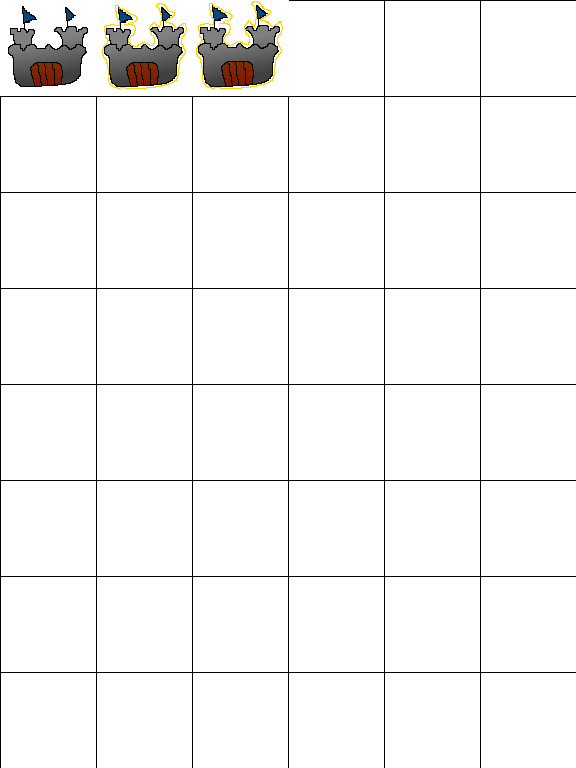
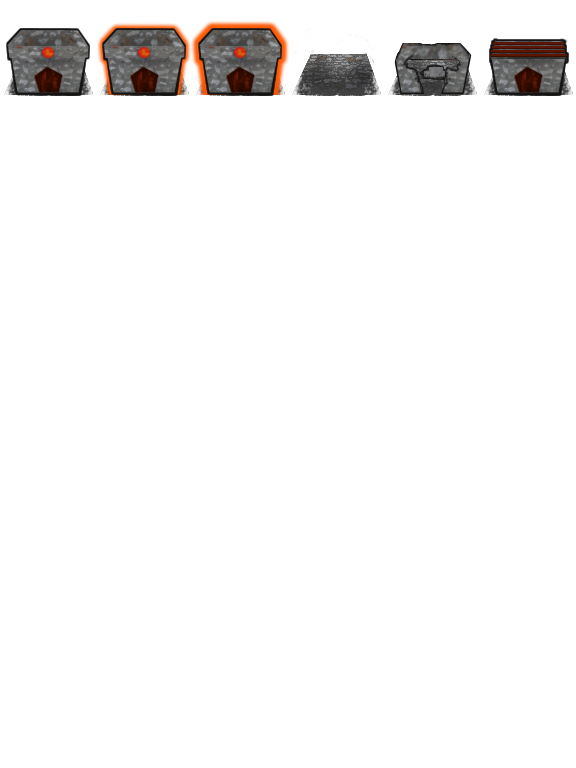
Construction de batiments et nouveau design

Changed region(s): [[0.0, 0.0, 1.0, 0.125]]

diff --git a/smallsoldiers/smallsoldiers/entity/Building.cs b/smallsoldiers/smallsoldiers/entity/Building.cs
@@ -10,7 +10,7 @@ namespace smallsoldiers.entity
     {
         private Flag fanion;
         public bool display_flag;
-        private int delay, time_since_last;
+        private int delay, time_since_last, building_state, elapsed;
         private Animation working_anim;
 
         public void SetPosition(Point _p) { rect.X = _p.X; rect.Y = _p.Y; }
@@ -18,30 +18,48 @@ namespace smallsoldiers.entity
         public Building(string _asset)
             : base(_asset,
                    new Rectangle(0, 0, Cons.BUILDING_SIZE, Cons.BUILDING_SIZE),
-                   new Rectangle(0, 0, Cons.BUILDING_SIZE, Cons.BUILDING_SIZE),
+                   new Rectangle(3 * Cons.BUILDING_SIZE, 0, Cons.BUILDING_SIZE, Cons.BUILDING_SIZE),
                    Color.White, 0.3f)
         {
             fanion = new Flag("flag_louis");
             display_flag = false;
             delay = 300;
             time_since_last = 0;
+            building_state = 0;
+            elapsed = 0;
             working_anim = new Animation("building_nicolas", new Rectangle(0, 0, 96, 96), 3, 0, depth, false);
             //model = new Soldier("fighter_louis", 50, 75, fanion);
             //model.move_to(Cons.WIDTH / 2, Cons.HEIGHT / 2);
         }
-        bool working = false;
         public void Update(GameTime _gameTime, Army _a)
         {
-            time_since_last++;
-            if (time_since_last >= delay)
+            if (building_state < 3)
             {
-                working = _a.Add_soldier(new Soldier("fighter_louis", rect.X + 32, rect.Y + 64, fanion));
-                time_since_last = 0;
-                
+                elapsed += _gameTime.ElapsedGameTime.Milliseconds;
+                if (elapsed > 2000)
+                {
+                    elapsed -= 2000;
+                    building_state++;
+                    source.X = Cons.BUILDING_SIZE * (3 + building_state);
+                    if (building_state == 3)
+                    {
+                        source.X = 0;
+                    }
+                }
             }
-            if (working)
+            else
             {
-                working_anim.Update(_gameTime);
+                time_since_last++;
+                if (time_since_last >= delay)
+                {
+                    if (_a.Add_soldier(new Soldier("fighter_louis", rect.X + 32, rect.Y + 64, fanion)))
+                        time_since_last = 0;
+
+                }
+                if (time_since_last <= delay)
+                {
+                    working_anim.Update(_gameTime);
+                }
             }
 
             if (display_flag)
@@ -63,7 +81,7 @@ namespace smallsoldiers.entity
 
         public override void Draw()
         {
-            if (working)
+            if (building_state > 2 && time_since_last <= delay)
                 working_anim.Draw(rect);
             else
                 base.Draw();

diff --git a/smallsoldiers/smallsoldiers/land/Slot.cs b/smallsoldiers/smallsoldiers/land/Slot.cs
@@ -89,6 +89,8 @@ namespace smallsoldiers.land
         }
         private void Update_when_selected(int _mx, int _my, bool _rpressed)
         {
+            if (building != null)
+            {
             if (right_click && _rpressed)
             {
                 right_click = false;
@@ -97,6 +99,8 @@ namespace smallsoldiers.land
             if (!_rpressed)
             {
                 right_click = true;
+            }
+
             }
         }
         public void Update_IA(GameTime _gameTime, Player _p)
